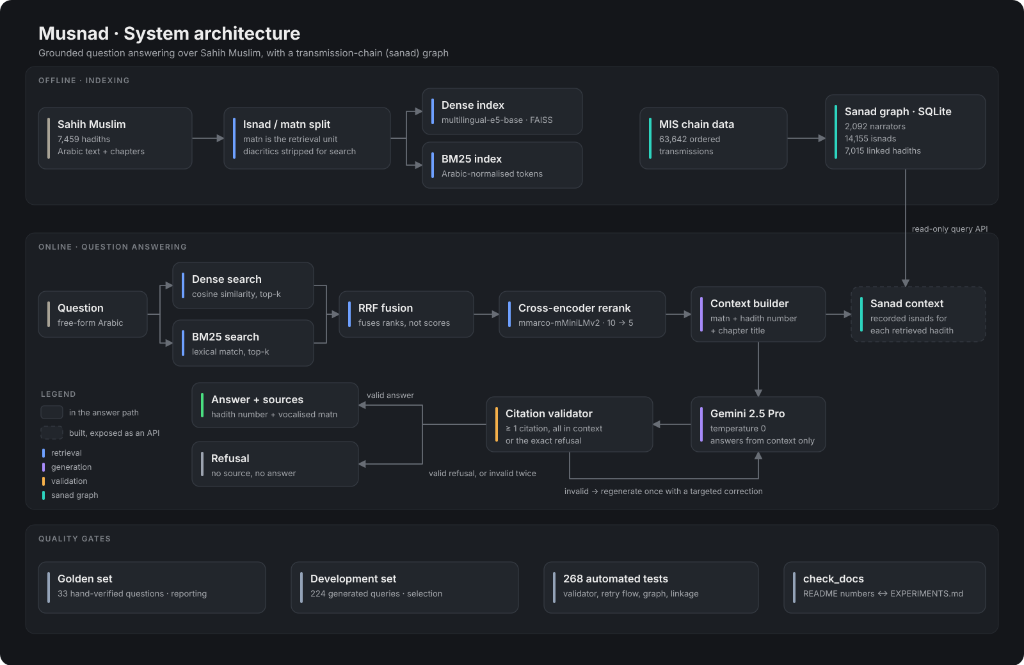
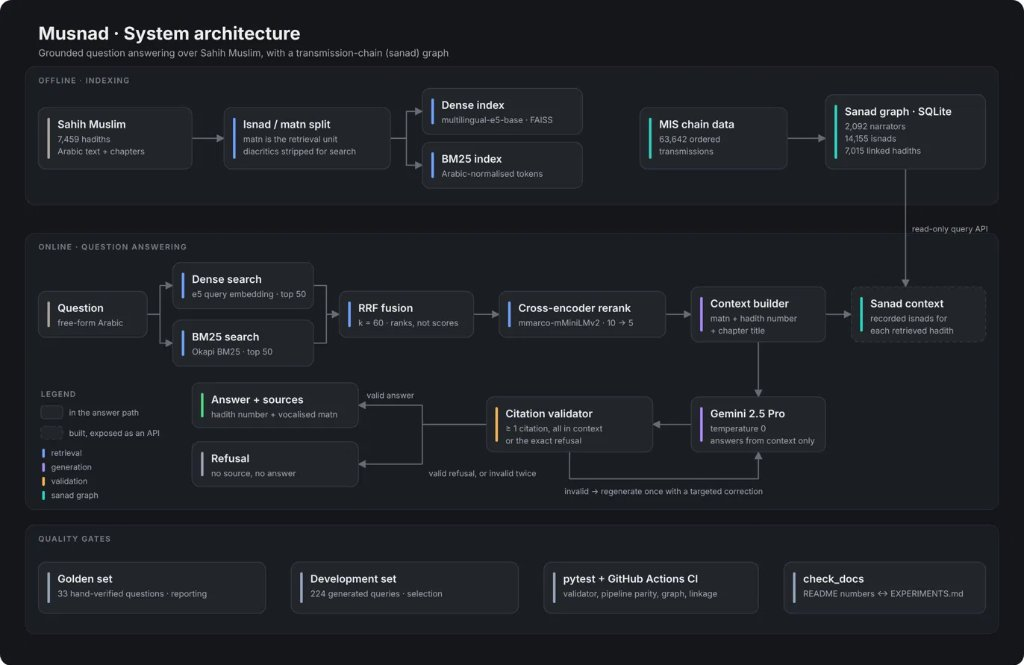
Update architecture diagrams, citation decision text, and 16-hex SHA-256 table

diff --git a/README.md b/README.md
@@ -110,7 +110,7 @@ Improving retrieval translated directly into better answers: reranking brought t
 | Reciprocal Rank Fusion on ranks (`rrf_k = 60`, `1.0 : 1.0`) | Raw score combination or tuned RRF weights / pool sizes | Cosine and BM25 scores sit on incompatible scales; rank fusion raised golden `hit@5` from `59%` (dense) and `63%` (BM25) to `74%` (`0.565` MRR), while sweeping candidate pools (25–200) and weights on 224 dev queries showed no gain over defaults ([EXPERIMENTS §5](EXPERIMENTS.md#5-البحث-الهجين), [§7](EXPERIMENTS.md#7-ضبط-بارامترات-الدمج--نتيجة-سلبية)) |
 | Rerank depth `top_k_in = 10` | Reranking top 20 or top 50 fused candidates | Across `top_k_in` ∈ {10, 20, 50}, `hit@1` stayed unchanged at `15/27` (`56%`) while `hit@5` dropped from `22/27` (`81%`) at depth 10 to `21/27` at depth 20 and `20/27` at depth 50 ([EXPERIMENTS §6](EXPERIMENTS.md#6-إعادة-الترتيب-reranker), [§20.D](EXPERIMENTS.md#d--the-reranker-depth-claim-was-wrong)) |
 | `mmarco-mMiniLMv2-L12` (33M) over `bge-reranker-v2-m3` (568M) | Shipping the 17× larger `bge-reranker-v2-m3` | Paired McNemar test found an exact 11–11 tie on `hit@1` across 224 dev queries (`p = 1.000`) and no significant difference on golden (`p = 0.250`), at `0.51`–`0.58` s/query vs `3.0`–`6.2` s/query on CPU ([EXPERIMENTS §6](EXPERIMENTS.md#اختيار-الموديل--اختبار-mcnemar-المزدوج)) |
-| Deterministic citation enforcement in code | Relying on system-prompt instructions alone | `validate_answer` catches missing citations, strict or loose out-of-context numbers, and mixed refusals, triggering one targeted regeneration before refusing (`0%` invalid citation attempts, `1/30` mixed-refusal loophole caught and repaired) ([EXPERIMENTS §9](EXPERIMENTS.md#9-جودة-الإجابة), [§21](EXPERIMENTS.md#21-إغلاق-ثغرة-التحقق-من-الاستشهاد-وإعادة-القياس)) |
+| Deterministic citation enforcement in code | Relying on system-prompt instructions alone | `validate_answer` catches missing citations, strict or loose out-of-context numbers, and mixed refusals, triggering one targeted regeneration before refusing (`0%` invalid citation attempts) ([EXPERIMENTS §9](EXPERIMENTS.md#9-جودة-الإجابة), [§21](EXPERIMENTS.md#21-إغلاق-ثغرة-التحقق-من-الاستشهاد-وإعادة-القياس)) |
 | CRAG self-correction disabled by default | LLM context grading + query rewrite before generation | Enabling CRAG left correct citation unchanged at `81%` (`22/27`) while tripling LLM calls from 1 to 3 per question ([EXPERIMENTS §9](EXPERIMENTS.md#هل-تحسين-الاسترجاع-يتحوّل-لإجابات-أصح)) |
 | Deterministic refusal over web/parametric fallback | Answering from model weights or external search when context lacks the answer | Returning `REFUSAL` achieved `3/3` on unanswerable refusal tests and `0%` false refusals when the gold hadith was in context ([EXPERIMENTS §9](EXPERIMENTS.md#9-جودة-الإجابة), [§21](EXPERIMENTS.md#21-إغلاق-ثغرة-التحقق-من-الاستشهاد-وإعادة-القياس)) |
 
@@ -149,14 +149,14 @@ Classical narrator gradings (*al-jarḥ wa-l-taʿdīl*) and biographical records
 
 Every evaluation dataset and graph build is pinned by a canonical SHA-256 digest in [`EXPERIMENTS.md`](EXPERIMENTS.md):
 
-| Artifact | Records | Scored | Canonical SHA-256 |
+| Artifact | Records | Scored | SHA-256 (first 16 hex) |
 |---|---:|---:|---|
 | `data/raw/golden.jsonl` | 33 (27 matn · 3 refusal · 3 narrator) | 27 retrieval / 30 answer | `a7ec05f48ec0491a` |
 | `data/raw/synthetic_eval.jsonl` | 224 | 224 | `4bec52d5a56a8fc8` |
 | `data/raw/muslim.json` | 7,459 hadiths | — | `63a99e46155dc6e9` |
[3 lines of base64/hex data omitted]
+| `data/processed/mis_linkage_accepted_v1.jsonl` | 7,015 accepted 1:1 links | — | `9c3a48e7a0af4f0d` |
+| `sanad_graph.sqlite` (MIS chain layer) | 2,092 narrators · 14,155 isnads · 63,642 edges | — | `496ccf1da21d2e84` |
+| `sanad_graph.sqlite` (full graph with local link layer) | + 7,459 local hadiths · 7,015 links | — | `c8818da00bf27f74` |
 
 Re-run the quality gates and evaluations:
 
